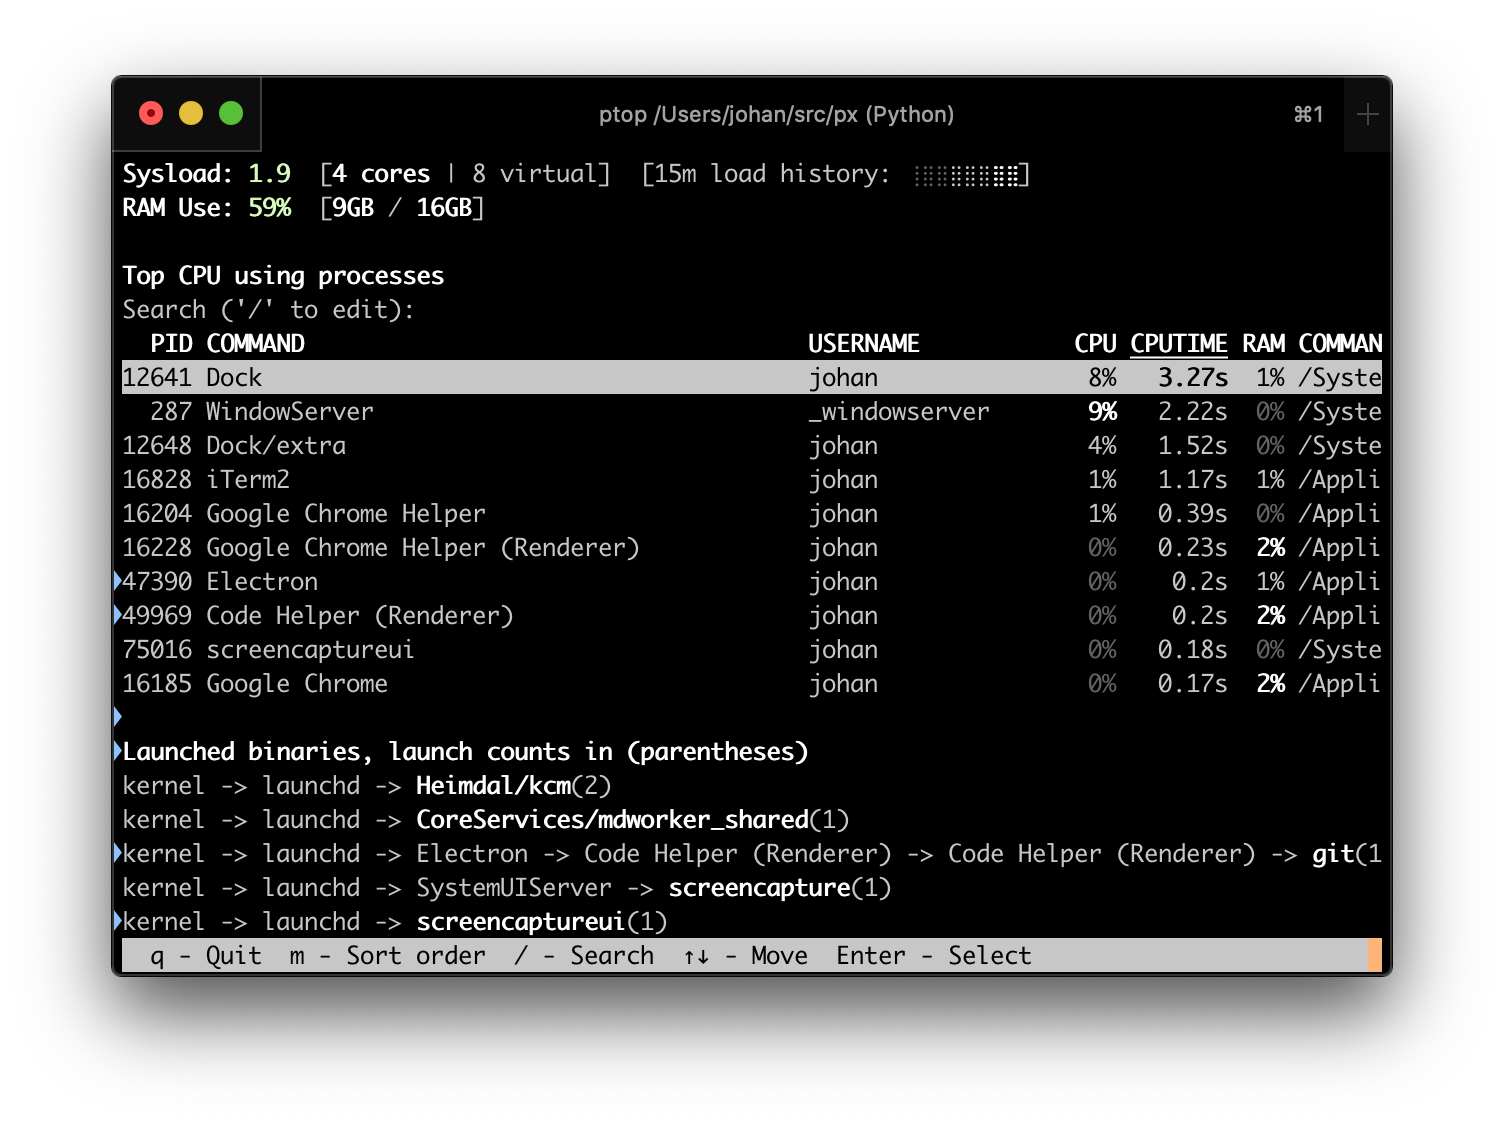
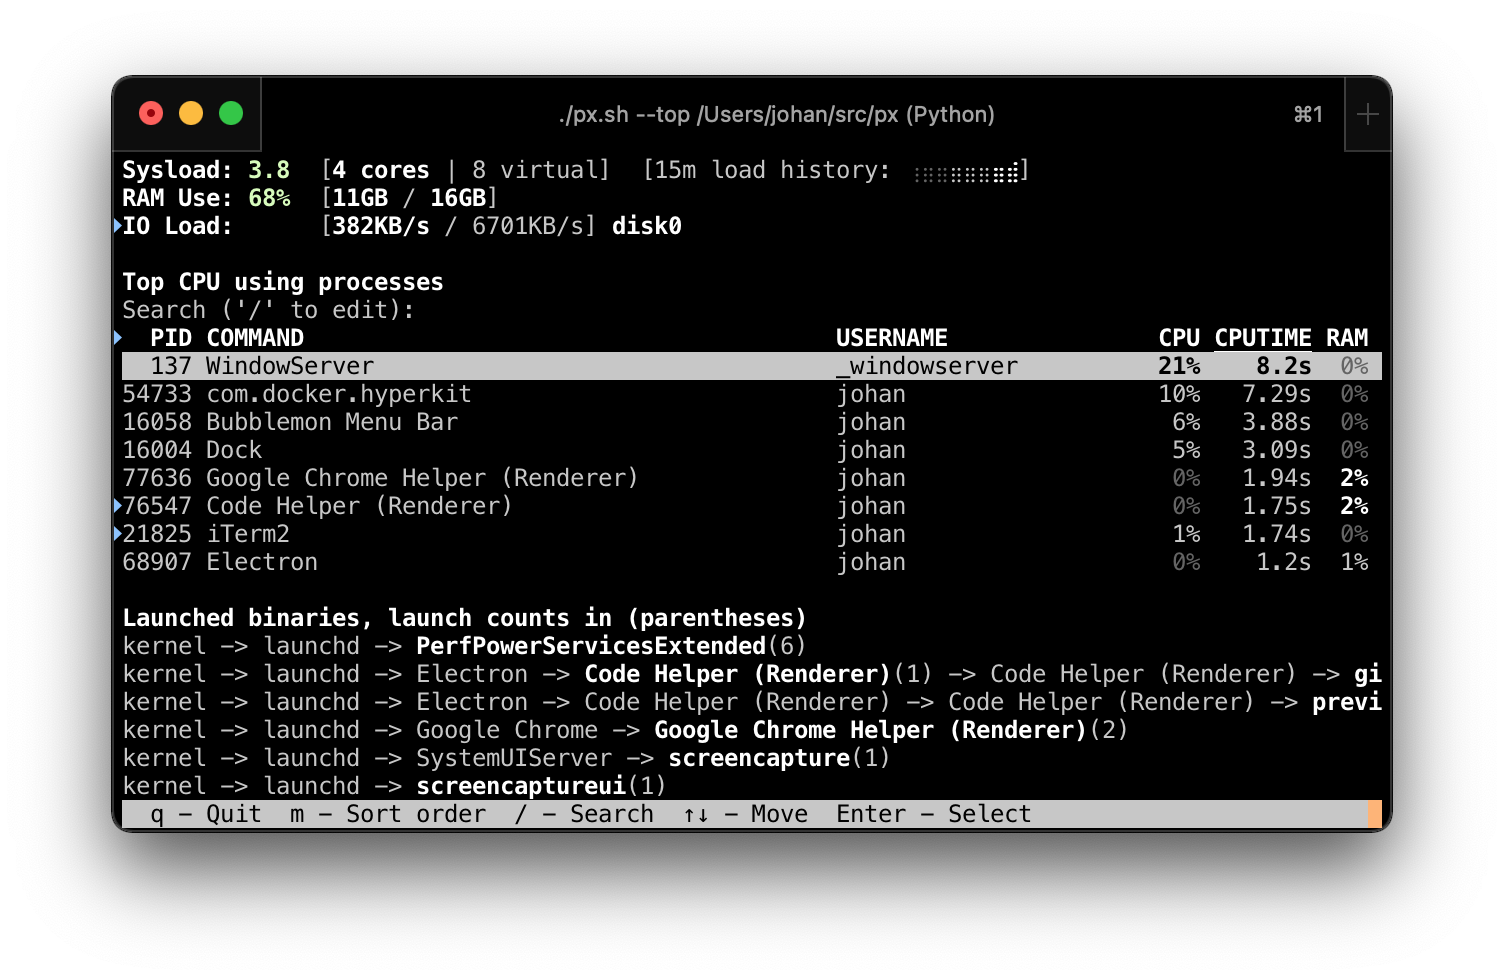
Update screenshot

Changed region(s): [[0.0625, 0.0612, 0.9375, 0.9184], [0.3438, 0.4592, 0.4062, 0.4898]]

diff --git a/README.rst b/README.rst
@@ -13,11 +13,13 @@ Output
 |ptop screenshot|
 
 * Note how the default sort order of CPU-usage-since-``ptop``-started makes the
-  display rather stable.
+  display mostly stable.
 * Note the core count right next to the system load number, for easy comparison.
 * Note the load history graph next to the load numbers. On this system the
-  load has been the same for the last fifteen minutes. This is a visualization of
-  the numbers you get from ``uptime``.
+  load went up during the last minute. This is a visualization of the numbers
+  you get from ``uptime``.
+* Note the ``IO Load`` number, this shows which IO device had the highest
+  average throughput since ``ptop`` launched.
 * Note that binaries launched while ``ptop`` is running are listed at the bottom
   of the display.
 * Selecting a process with Enter will offer you to see detailed information
